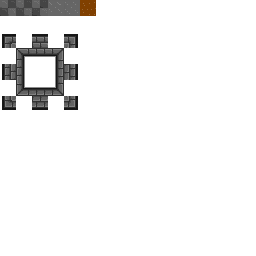
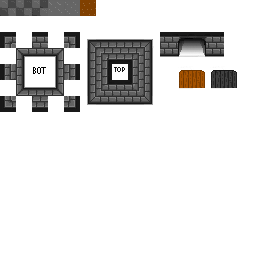
tile work on wall corners and doorways.

diff --git a/lib/game/levels/aqueduct.js b/lib/game/levels/aqueduct.js
@@ -1,6 +1,6 @@
 ig.module( 'game.levels.aqueduct' )
 .requires('impact.image')
 .defines(function(){
-LevelAqueduct=/*JSON[*/{"entities":[{"type":"EntityCharlotte","x":80,"y":136},{"type":"EntityDaisy","x":240,"y":112},{"type":"EntityBlock","x":128,"y":168},{"type":"EntityBlock","x":176,"y":152},{"type":"EntityBlock","x":144,"y":80},{"type":"EntityFaucet","x":144,"y":108},{"type":"EntityBlock","x":232,"y":148},{"type":"EntityBlock","x":212,"y":72}],"layer":[{"name":"ground","width":30,"height":20,"linkWithCollision":false,"visible":1,"tilesetName":"media/floortiles-16x16.png","repeat":false,"distance":"1","tilesize":16,"foreground":false,"data":[[0,0,0,0,0,0,0,0,0,0,0,0,0,0,0,0,0,0,0,0,0,0,0,0,0,0,0,0,0,0],[0,0,0,0,0,0,0,0,0,0,0,0,0,0,0,0,0,0,0,0,0,0,0,0,0,0,0,0,0,0],[0,0,1,1,1,1,1,1,1,1,1,1,1,1,1,4,1,1,1,0,0,0,0,0,0,0,0,0,0,0],[0,0,1,1,1,1,1,1,1,2,2,1,1,1,1,4,2,2,1,0,0,0,0,0,0,0,0,0,0,0],[0,0,1,2,2,2,2,2,2,2,2,2,2,2,3,4,2,2,1,0,0,0,0,0,0,0,0,0,0,0],[0,0,1,2,2,2,2,3,2,1,3,2,2,2,2,4,2,2,1,0,0,0,0,0,0,0,0,0,0,0],[0,0,1,2,3,2,2,2,2,2,3,2,2,2,5,5,5,2,1,0,0,0,0,0,0,0,0,0,0,0],[0,0,4,4,4,4,4,4,4,4,4,4,4,4,5,6,5,4,4,0,0,0,0,0,0,0,0,0,0,0],[0,0,1,2,3,3,2,2,2,3,1,1,1,2,5,5,5,2,1,0,0,0,0,0,0,0,0,0,0,0],[0,0,1,2,2,2,2,2,2,2,3,1,1,1,2,4,2,2,1,0,0,0,0,0,0,0,0,0,0,0],[0,0,1,2,3,3,2,2,2,2,2,1,2,2,3,4,3,2,1,0,0,0,0,0,0,0,0,0,0,0],[0,0,1,2,3,3,3,3,2,2,2,2,2,3,2,4,2,2,1,0,0,0,0,0,0,0,0,0,0,0],[0,0,1,2,3,3,2,2,2,2,2,2,3,2,2,4,3,2,1,0,0,0,0,0,0,0,0,0,0,0],[0,0,1,2,2,1,1,1,2,2,2,2,2,2,2,4,2,2,1,0,0,0,0,0,0,0,0,0,0,0],[0,0,1,1,1,1,1,1,1,1,1,1,1,1,1,4,1,1,1,0,0,0,0,0,0,0,0,0,0,0],[0,0,0,0,0,0,0,0,0,0,0,0,0,0,0,0,0,0,0,0,0,0,0,0,0,0,0,0,0,0],[0,0,0,0,0,0,0,0,0,0,0,0,0,0,0,0,0,0,0,0,0,0,0,0,0,0,0,0,0,0],[0,0,0,0,0,0,0,0,0,0,0,0,0,0,0,0,0,0,0,0,0,0,0,0,0,0,0,0,0,0],[0,0,0,0,0,0,0,0,0,0,0,0,0,0,0,0,0,0,0,0,0,0,0,0,0,0,0,0,0,0],[0,0,0,0,0,0,0,0,0,0,0,0,0,0,0,0,0,0,0,0,0,0,0,0,0,0,0,0,0,0]]},{"name":"walls","width":30,"height":20,"linkWithCollision":false,"visible":1,"tilesetName":"media/floortiles-16x16.png","repeat":false,"distance":"1","tilesize":16,"foreground":false,"data":[[0,0,0,0,0,0,0,0,0,0,0,0,0,0,0,0,0,0,0,0,0,0,0,0,0,0,0,0,0,0],[0,33,35,35,35,35,35,35,35,35,35,35,35,35,35,35,35,35,35,37,0,0,0,0,0,0,0,0,0,0],[0,65,50,51,51,51,51,51,51,51,51,51,51,51,51,51,51,51,52,69,0,0,0,0,0,0,0,0,0,0],[0,65,66,0,0,0,0,0,0,0,0,0,0,0,0,0,0,0,68,69,0,0,0,0,0,0,0,0,0,0],[0,65,66,0,0,0,0,0,0,0,0,0,0,0,0,0,0,0,68,69,0,0,0,0,0,0,0,0,0,0],[0,65,66,0,0,0,0,0,0,0,0,0,0,0,0,0,0,0,68,69,0,0,0,0,0,0,0,0,0,0],[0,65,66,0,0,0,0,0,0,0,0,0,0,0,0,0,0,0,68,69,0,0,0,0,0,0,0,0,0,0],[0,65,66,0,0,0,0,0,0,0,0,0,0,0,0,0,0,0,68,69,0,0,0,0,0,0,0,0,0,0],[0,65,66,0,0,0,0,0,0,0,0,0,0,0,0,0,0,0,68,69,0,0,0,0,0,0,0,0,0,0],[0,65,66,0,104,0,0,0,0,0,0,0,0,0,0,0,0,0,68,69,0,0,0,0,0,0,0,0,0,0],[0,65,66,0,0,0,0,0,0,0,0,0,0,0,0,0,0,0,68,69,0,0,0,0,0,0,0,0,0,0],[0,65,66,0,0,0,0,0,0,0,0,0,0,0,0,0,0,0,68,69,0,0,0,0,0,0,0,0,0,0],[0,65,66,0,0,0,0,0,0,0,0,0,0,0,0,0,0,0,68,69,0,0,0,0,0,0,0,0,0,0],[0,65,66,0,0,0,0,0,0,0,0,0,0,0,0,0,0,0,68,69,0,0,0,0,0,0,0,0,0,0],[0,65,82,83,83,83,83,83,83,83,83,83,83,83,83,83,83,83,84,69,0,0,0,0,0,0,0,0,0,0],[0,97,99,99,99,99,99,99,99,99,99,99,99,99,99,99,99,99,99,101,0,0,0,0,0,0,0,0,0,0],[0,0,0,0,0,0,0,0,0,0,0,0,0,0,0,0,0,0,0,0,0,0,0,0,0,0,0,0,0,0],[0,0,0,0,0,0,0,0,0,0,0,0,0,0,0,0,0,0,0,0,0,0,0,0,0,0,0,0,0,0],[0,0,0,0,0,0,0,0,0,0,0,0,0,0,0,0,0,0,0,0,0,0,0,0,0,0,0,0,0,0],[0,0,0,0,0,0,0,0,0,0,0,0,0,0,0,0,0,0,0,0,0,0,0,0,0,0,0,0,0,0]]},{"name":"collision","width":48,"height":48,"linkWithCollision":false,"visible":1,"tilesetName":"media/collisiontiles-8x8.png","repeat":false,"distance":"1","tilesize":8,"foreground":false,"data":[[0,0,0,0,0,0,0,0,0,0,0,0,0,0,0,0,0,0,0,0,0,0,0,0,0,0,0,0,0,0,0,0,0,0,0,0,0,0,0,0,0,0,0,0,0,0,0,0],[0,0,0,0,0,0,0,0,0,0,0,0,0,0,0,0,0,0,0,0,0,0,0,0,0,0,0,0,0,0,0,0,0,0,0,0,0,0,0,0,0,0,0,0,0,0,0,0],[0,0,0,0,0,0,0,0,0,0,0,0,0,0,0,0,0,0,0,0,0,0,0,0,0,0,0,0,0,0,0,0,0,0,0,0,0,0,0,0,0,0,0,0,0,0,0,0],[0,0,0,0,0,0,0,0,0,0,0,0,0,0,0,0,0,0,0,0,0,0,0,0,0,0,0,0,0,0,0,0,0,0,0,0,0,0,0,0,0,0,0,0,0,0,0,0],[0,0,0,0,1,1,1,1,1,1,1,1,1,1,1,1,1,1,1,1,1,1,1,1,1,1,1,1,1,1,1,1,1,1,1,1,1,1,0,0,0,0,0,0,0,0,0,0],[0,0,0,0,1,0,0,0,0,0,0,0,0,0,0,0,0,0,0,0,0,0,0,0,0,0,0,0,0,0,0,0,0,0,0,0,0,1,0,0,0,0,0,0,0,0,0,0],[0,0,0,0,1,0,0,0,0,0,0,0,0,0,0,0,0,0,0,0,0,0,0,0,0,0,0,0,0,0,0,0,0,0,0,0,0,1,0,0,0,0,0,0,0,0,0,0],[0,0,0,0,1,0,0,0,0,0,0,0,0,0,0,0,0,0,0,0,0,0,0,0,0,0,0,0,0,0,0,0,0,0,0,0,0,1,0,0,0,0,0,0,0,0,0,0],[0,0,0,0,1,0,0,0,0,0,0,0,0,0,0,0,0,0,0,0,0,0,0,0,0,0,0,0,0,0,0,0,0,0,0,0,0,1,0,0,0,0,0,0,0,0,0,0],[0,0,0,0,1,0,0,0,0,0,0,0,0,0,0,0,0,0,0,0,0,0,0,0,0,0,0,0,0,0,0,0,0,0,0,0,0,1,0,0,0,0,0,0,0,0,0,0],[0,0,0,0,1,0,0,0,0,0,0,0,0,0,0,0,0,0,0,0,0,0,0,0,0,0,0,0,0,0,0,0,0,0,0,0,0,1,0,0,0,0,0,0,0,0,0,0],[0,0,0,0,1,0,0,0,0,0,0,0,0,0,0,0,0,0,0,0,0,0,0,0,0,0,0,0,0,0,0,0,0,0,0,0,0,1,0,0,0,0,0,0,0,0,0,0],[0,0,0,0,1,0,0,0,0,0,0,0,0,0,0,0,0,0,0,0,0,0,0,0,0,0,0,0,0,0,0,0,0,0,0,0,0,1,0,0,0,0,0,0,0,0,0,0],[0,0,0,0,1,0,0,0,0,0,0,0,0,0,0,0,0,0,0,0,0,0,0,0,0,0,0,0,0,0,0,0,0,0,0,0,0,1,0,0,0,0,0,0,0,0,0,0],[0,0,0,0,1,0,0,0,0,0,0,0,0,0,0,0,0,0,0,0,0,0,0,0,0,0,0,0,0,0,0,0,0,0,0,0,0,1,0,0,0,0,0,0,0,0,0,0],[0,0,0,0,1,0,0,0,0,0,0,0,0,0,0,0,0,0,0,0,0,0,0,0,0,0,0,0,0,0,0,0,0,0,0,0,0,1,0,0,0,0,0,0,0,0,0,0],[0,0,0,0,1,0,0,0,0,0,0,0,0,0,0,0,0,0,0,0,0,0,0,0,0,0,0,0,0,0,0,0,0,0,0,0,0,1,0,0,0,0,0,0,0,0,0,0],[0,0,0,0,1,0,0,0,0,0,0,0,0,0,0,0,0,0,0,0,0,0,0,0,0,0,0,0,0,0,0,0,0,0,0,0,0,1,0,0,0,0,0,0,0,0,0,0],[0,0,0,0,1,0,0,0,0,0,0,0,0,0,0,0,0,0,0,0,0,0,0,0,0,0,0,0,0,0,0,0,0,0,0,0,0,1,0,0,0,0,0,0,0,0,0,0],[0,0,0,0,1,0,0,0,0,0,0,0,0,0,0,0,0,0,0,0,0,0,0,0,0,0,0,0,0,0,0,0,0,0,0,0,0,1,0,0,0,0,0,0,0,0,0,0],[0,0,0,0,1,0,0,0,0,0,0,0,0,0,0,0,0,0,0,0,0,0,0,0,0,0,0,0,0,0,0,0,0,0,0,0,0,1,0,0,0,0,0,0,0,0,0,0],[0,0,0,0,1,0,0,0,0,0,0,0,0,0,0,0,0,0,0,0,0,0,0,0,0,0,0,0,0,0,0,0,0,0,0,0,0,1,0,0,0,0,0,0,0,0,0,0],[0,0,0,0,1,0,0,0,0,0,0,0,0,0,0,0,0,0,0,0,0,0,0,0,0,0,0,0,0,0,0,0,0,0,0,0,0,1,0,0,0,0,0,0,0,0,0,0],[0,0,0,0,1,0,0,0,0,0,0,0,0,0,0,0,0,0,0,0,0,0,0,0,0,0,0,0,0,0,0,0,0,0,0,0,0,1,0,0,0,0,0,0,0,0,0,0],[0,0,0,0,1,0,0,0,0,0,0,0,0,0,0,0,0,0,0,0,0,0,0,0,0,0,0,0,0,0,0,0,0,0,0,0,0,1,0,0,0,0,0,0,0,0,0,0],[0,0,0,0,1,0,0,0,0,0,0,0,0,0,0,0,0,0,0,0,0,0,0,0,0,0,0,0,0,0,0,0,0,0,0,0,0,1,0,0,0,0,0,0,0,0,0,0],[0,0,0,0,1,0,0,0,0,0,0,0,0,0,0,0,0,0,0,0,0,0,0,0,0,0,0,0,0,0,0,0,0,0,0,0,0,1,0,0,0,0,0,0,0,0,0,0],[0,0,0,0,1,0,0,0,0,0,0,0,0,0,0,0,0,0,0,0,0,0,0,0,0,0,0,0,0,0,0,0,0,0,0,0,0,1,0,0,0,0,0,0,0,0,0,0],[0,0,0,0,1,0,0,0,0,0,0,0,0,0,0,0,0,0,0,0,0,0,0,0,0,0,0,0,0,0,0,0,0,0,0,0,0,1,0,0,0,0,0,0,0,0,0,0],[0,0,0,0,1,1,1,1,1,1,1,1,1,1,1,1,1,1,1,1,1,1,1,1,1,1,1,1,1,1,1,1,1,1,1,1,1,1,0,0,0,0,0,0,0,0,0,0],[0,0,0,0,0,0,0,0,0,0,0,0,0,0,0,0,0,0,0,0,0,0,0,0,0,0,0,0,0,0,0,0,0,0,0,0,0,0,0,0,0,0,0,0,0,0,0,0],[0,0,0,0,0,0,0,0,0,0,0,0,0,0,0,0,0,0,0,0,0,0,0,0,0,0,0,0,0,0,0,0,0,0,0,0,0,0,0,0,0,0,0,0,0,0,0,0],[0,0,0,0,0,0,0,0,0,0,0,0,0,0,0,0,0,0,0,0,0,0,0,0,0,0,0,0,0,0,0,0,0,0,0,0,0,0,0,0,0,0,0,0,0,0,0,0],[0,0,0,0,0,0,0,0,0,0,0,0,0,0,0,0,0,0,0,0,0,0,0,0,0,0,0,0,0,0,0,0,0,0,0,0,0,0,0,0,0,0,0,0,0,0,0,0],[0,0,0,0,0,0,0,0,0,0,0,0,0,0,0,0,0,0,0,0,0,0,0,0,0,0,0,0,0,0,0,0,0,0,0,0,0,0,0,0,0,0,0,0,0,0,0,0],[0,0,0,0,0,0,0,0,0,0,0,0,0,0,0,0,0,0,0,0,0,0,0,0,0,0,0,0,0,0,0,0,0,0,0,0,0,0,0,0,0,0,0,0,0,0,0,0],[0,0,0,0,0,0,0,0,0,0,0,0,0,0,0,0,0,0,0,0,0,0,0,0,0,0,0,0,0,0,0,0,0,0,0,0,0,0,0,0,0,0,0,0,0,0,0,0],[0,0,0,0,0,0,0,0,0,0,0,0,0,0,0,0,0,0,0,0,0,0,0,0,0,0,0,0,0,0,0,0,0,0,0,0,0,0,0,0,0,0,0,0,0,0,0,0],[0,0,0,0,0,0,0,0,0,0,0,0,0,0,0,0,0,0,0,0,0,0,0,0,0,0,0,0,0,0,0,0,0,0,0,0,0,0,0,0,0,0,0,0,0,0,0,0],[0,0,0,0,0,0,0,0,0,0,0,0,0,0,0,0,0,0,0,0,0,0,0,0,0,0,0,0,0,0,0,0,0,0,0,0,0,0,0,0,0,0,0,0,0,0,0,0],[0,0,0,0,0,0,0,0,0,0,0,0,0,0,0,0,0,0,0,0,0,0,0,0,0,0,0,0,0,0,0,0,0,0,0,0,0,0,0,0,0,0,0,0,0,0,0,0],[0,0,0,0,0,0,0,0,0,0,0,0,0,0,0,0,0,0,0,0,0,0,0,0,0,0,0,0,0,0,0,0,0,0,0,0,0,0,0,0,0,0,0,0,0,0,0,0],[0,0,0,0,0,0,0,0,0,0,0,0,0,0,0,0,0,0,0,0,0,0,0,0,0,0,0,0,0,0,0,0,0,0,0,0,0,0,0,0,0,0,0,0,0,0,0,0],[0,0,0,0,0,0,0,0,0,0,0,0,0,0,0,0,0,0,0,0,0,0,0,0,0,0,0,0,0,0,0,0,0,0,0,0,0,0,0,0,0,0,0,0,0,0,0,0],[0,0,0,0,0,0,0,0,0,0,0,0,0,0,0,0,0,0,0,0,0,0,0,0,0,0,0,0,0,0,0,0,0,0,0,0,0,0,0,0,0,0,0,0,0,0,0,0],[0,0,0,0,0,0,0,0,0,0,0,0,0,0,0,0,0,0,0,0,0,0,0,0,0,0,0,0,0,0,0,0,0,0,0,0,0,0,0,0,0,0,0,0,0,0,0,0],[0,0,0,0,0,0,0,0,0,0,0,0,0,0,0,0,0,0,0,0,0,0,0,0,0,0,0,0,0,0,0,0,0,0,0,0,0,0,0,0,0,0,0,0,0,0,0,0],[0,0,0,0,0,0,0,0,0,0,0,0,0,0,0,0,0,0,0,0,0,0,0,0,0,0,0,0,0,0,0,0,0,0,0,0,0,0,0,0,0,0,0,0,0,0,0,0]]}]}/*]JSON*/;
+LevelAqueduct=/*JSON[*/{"entities":[{"type":"EntityCharlotte","x":80,"y":136},{"type":"EntityDaisy","x":240,"y":112},{"type":"EntityBlock","x":128,"y":168},{"type":"EntityBlock","x":176,"y":152},{"type":"EntityBlock","x":144,"y":80},{"type":"EntityFaucet","x":144,"y":108},{"type":"EntityBlock","x":232,"y":148},{"type":"EntityBlock","x":212,"y":72}],"layer":[{"name":"ground","width":30,"height":20,"linkWithCollision":false,"visible":1,"tilesetName":"media/floortiles-16x16.png","repeat":false,"distance":"1","tilesize":16,"foreground":false,"data":[[0,0,0,0,0,0,0,0,0,0,0,0,0,0,0,0,0,0,0,0,0,0,0,0,0,0,0,0,0,0],[0,0,0,0,0,0,0,0,0,0,0,0,0,0,0,0,0,0,0,0,0,0,0,0,0,0,0,0,0,0],[0,0,1,1,1,1,1,1,1,1,1,1,1,1,2,4,1,1,1,0,0,0,0,0,0,0,0,0,0,0],[0,0,1,1,1,1,1,1,1,2,2,1,1,1,2,4,2,2,1,0,0,0,0,0,0,0,0,0,0,0],[0,0,1,2,2,2,2,2,2,2,2,2,2,2,2,4,2,2,1,0,0,0,0,0,0,0,0,0,0,0],[0,0,1,2,2,2,2,3,2,1,3,2,2,2,2,5,2,2,1,0,0,0,0,0,0,0,0,0,0,0],[0,0,1,2,3,2,2,2,2,2,3,2,2,2,5,5,5,2,1,0,0,0,0,0,0,0,0,0,0,0],[0,0,4,4,5,4,5,4,4,4,4,4,5,5,5,6,5,4,4,0,0,0,0,0,0,0,0,0,0,0],[0,0,2,2,2,2,2,2,2,2,2,2,2,2,5,5,5,2,2,0,0,0,0,0,0,0,0,0,0,0],[0,0,1,2,3,2,2,2,2,2,3,1,1,2,2,4,2,2,1,0,0,0,0,0,0,0,0,0,0,0],[0,0,1,2,3,3,2,2,2,2,2,1,2,2,2,4,3,2,1,0,0,0,0,0,0,0,0,0,0,0],[0,0,1,2,3,3,3,3,2,2,2,2,2,3,2,4,2,2,1,0,0,0,0,0,0,0,0,0,0,0],[0,0,1,2,3,3,2,2,2,2,2,2,3,2,2,4,3,2,1,0,0,0,0,0,0,0,0,0,0,0],[0,0,1,2,2,1,1,1,2,2,2,2,2,2,2,4,2,2,1,0,0,0,0,0,0,0,0,0,0,0],[0,0,1,1,1,1,1,1,1,1,1,1,1,1,2,4,1,1,1,0,0,0,0,0,0,0,0,0,0,0],[0,0,0,0,0,0,0,0,0,0,0,0,0,0,0,0,0,0,0,0,0,0,0,0,0,0,0,0,0,0],[0,0,0,0,0,0,0,0,0,0,0,0,0,0,0,0,0,0,0,0,0,0,0,0,0,0,0,0,0,0],[0,0,0,0,0,0,0,0,0,0,0,0,0,0,0,0,0,0,0,0,0,0,0,0,0,0,0,0,0,0],[0,0,0,0,0,0,0,0,0,0,0,0,0,0,0,0,0,0,0,0,0,0,0,0,0,0,0,0,0,0],[0,0,0,0,0,0,0,0,0,0,0,0,0,0,0,0,0,0,0,0,0,0,0,0,0,0,0,0,0,0]]},{"name":"walls","width":30,"height":20,"linkWithCollision":false,"visible":1,"tilesetName":"media/floortiles-16x16.png","repeat":false,"distance":"1","tilesize":16,"foreground":false,"data":[[0,0,0,0,0,0,0,0,0,0,0,0,0,0,0,0,0,0,0,0,0,0,0,0,0,0,0,0,0,0],[0,33,35,35,43,44,45,35,35,35,35,35,35,35,44,45,35,35,35,37,0,0,0,0,0,0,0,0,0,0],[0,65,50,51,51,60,61,51,51,51,51,51,51,51,60,61,51,51,52,69,0,0,0,0,0,0,0,0,0,0],[0,65,66,0,0,0,0,0,0,0,0,0,0,0,0,0,0,0,68,69,0,0,0,0,0,0,0,0,0,0],[0,65,66,0,0,0,0,0,0,0,0,0,0,0,0,0,0,0,68,69,0,0,0,0,0,0,0,0,0,0],[0,65,66,0,0,0,0,0,0,0,0,0,0,0,0,0,0,0,68,69,0,0,0,0,0,0,0,0,0,0],[0,65,66,0,0,0,0,0,0,0,0,0,0,0,0,0,0,0,68,69,0,0,0,0,0,0,0,0,0,0],[0,65,66,0,0,0,0,0,0,0,0,0,0,0,0,0,0,0,68,69,0,0,0,0,0,0,0,0,0,0],[0,65,66,0,0,0,0,0,0,0,0,0,0,0,0,0,0,0,68,69,0,0,0,0,0,0,0,0,0,0],[0,65,66,0,0,0,0,0,0,0,0,0,0,0,0,0,0,0,68,69,0,0,0,0,0,0,0,0,0,0],[0,65,66,0,0,0,0,0,0,0,0,0,0,0,0,0,0,0,68,69,0,0,0,0,0,0,0,0,0,0],[0,65,66,0,0,0,0,0,0,0,0,0,0,0,0,0,0,0,68,69,0,0,0,0,0,0,0,0,0,0],[0,65,66,0,0,0,0,0,0,0,0,0,0,0,0,0,0,0,68,69,0,0,0,0,0,0,0,0,0,0],[0,65,66,0,0,0,0,0,0,0,0,0,0,0,0,0,0,0,68,69,0,0,0,0,0,0,0,0,0,0],[0,65,82,83,83,83,83,83,83,83,83,83,83,83,83,83,83,83,84,69,0,0,0,0,0,0,0,0,0,0],[0,97,99,99,99,99,99,99,99,99,99,99,99,99,99,99,99,99,99,101,0,0,0,0,0,0,0,0,0,0],[0,0,0,0,0,0,0,0,0,0,0,0,0,0,0,0,0,0,0,0,0,0,0,0,0,0,0,0,0,0],[0,0,0,0,0,0,0,0,0,0,0,0,0,0,0,0,0,0,0,0,0,0,0,0,0,0,0,0,0,0],[0,0,0,0,0,0,0,0,0,0,0,0,0,0,0,0,0,0,0,0,0,0,0,0,0,0,0,0,0,0],[0,0,0,0,0,0,0,0,0,0,0,0,0,0,0,0,0,0,0,0,0,0,0,0,0,0,0,0,0,0]]},{"name":"collision","width":48,"height":48,"linkWithCollision":false,"visible":1,"tilesetName":"media/collisiontiles-8x8.png","repeat":false,"distance":"1","tilesize":8,"foreground":false,"data":[[0,0,0,0,0,0,0,0,0,0,0,0,0,0,0,0,0,0,0,0,0,0,0,0,0,0,0,0,0,0,0,0,0,0,0,0,0,0,0,0,0,0,0,0,0,0,0,0],[0,0,0,0,0,0,0,0,0,0,0,0,0,0,0,0,0,0,0,0,0,0,0,0,0,0,0,0,0,0,0,0,0,0,0,0,0,0,0,0,0,0,0,0,0,0,0,0],[0,0,0,0,0,0,0,0,0,0,0,0,0,0,0,0,0,0,0,0,0,0,0,0,0,0,0,0,0,0,0,0,0,0,0,0,0,0,0,0,0,0,0,0,0,0,0,0],[0,0,0,0,0,0,0,0,0,0,0,0,0,0,0,0,0,0,0,0,0,0,0,0,0,0,0,1,1,1,1,1,1,0,0,0,0,0,0,0,0,0,0,0,0,0,0,0],[0,0,0,0,1,1,1,1,1,1,1,1,1,1,1,1,1,1,1,1,1,1,1,1,1,1,1,1,0,0,0,0,1,1,1,1,1,1,0,0,0,0,0,0,0,0,0,0],[0,0,0,0,1,0,0,0,0,0,0,0,0,0,0,0,0,0,0,0,0,0,0,0,0,0,0,0,0,0,0,0,0,0,0,0,0,1,0,0,0,0,0,0,0,0,0,0],[0,0,0,0,1,0,0,0,0,0,0,0,0,0,0,0,0,0,0,0,0,0,0,0,0,0,0,0,0,0,0,0,0,0,0,0,0,1,0,0,0,0,0,0,0,0,0,0],[0,0,0,0,1,0,0,0,0,0,0,0,0,0,0,0,0,0,0,0,0,0,0,0,0,0,0,0,0,0,0,0,0,0,0,0,0,1,0,0,0,0,0,0,0,0,0,0],[0,0,0,0,1,0,0,0,0,0,0,0,0,0,0,0,0,0,0,0,0,0,0,0,0,0,0,0,0,0,0,0,0,0,0,0,0,1,0,0,0,0,0,0,0,0,0,0],[0,0,0,0,1,0,0,0,0,0,0,0,0,0,0,0,0,0,0,0,0,0,0,0,0,0,0,0,0,0,0,0,0,0,0,0,0,1,0,0,0,0,0,0,0,0,0,0],[0,0,0,0,1,0,0,0,0,0,0,0,0,0,0,0,0,0,0,0,0,0,0,0,0,0,0,0,0,0,0,0,0,0,0,0,0,1,0,0,0,0,0,0,0,0,0,0],[0,0,0,0,1,0,0,0,0,0,0,0,0,0,0,0,0,0,0,0,0,0,0,0,0,0,0,0,0,0,0,0,0,0,0,0,0,1,0,0,0,0,0,0,0,0,0,0],[0,0,0,0,1,0,0,0,0,0,0,0,0,0,0,0,0,0,0,0,0,0,0,0,0,0,0,0,0,0,0,0,0,0,0,0,0,1,0,0,0,0,0,0,0,0,0,0],[0,0,0,0,1,0,0,0,0,0,0,0,0,0,0,0,0,0,0,0,0,0,0,0,0,0,0,0,0,0,0,0,0,0,0,0,0,1,0,0,0,0,0,0,0,0,0,0],[0,0,0,0,1,0,0,0,0,0,0,0,0,0,0,0,0,0,0,0,0,0,0,0,0,0,0,0,0,0,0,0,0,0,0,0,0,1,0,0,0,0,0,0,0,0,0,0],[0,0,0,0,1,0,0,0,0,0,0,0,0,0,0,0,0,0,0,0,0,0,0,0,0,0,0,0,0,0,0,0,0,0,0,0,0,1,0,0,0,0,0,0,0,0,0,0],[0,0,0,0,1,0,0,0,0,0,0,0,0,0,0,0,0,0,0,0,0,0,0,0,0,0,0,0,0,0,0,0,0,0,0,0,0,1,0,0,0,0,0,0,0,0,0,0],[0,0,0,0,1,0,0,0,0,0,0,0,0,0,0,0,0,0,0,0,0,0,0,0,0,0,0,0,0,0,0,0,0,0,0,0,0,1,0,0,0,0,0,0,0,0,0,0],[0,0,0,0,1,0,0,0,0,0,0,0,0,0,0,0,0,0,0,0,0,0,0,0,0,0,0,0,0,0,0,0,0,0,0,0,0,1,0,0,0,0,0,0,0,0,0,0],[0,0,0,0,1,0,0,0,0,0,0,0,0,0,0,0,0,0,0,0,0,0,0,0,0,0,0,0,0,0,0,0,0,0,0,0,0,1,0,0,0,0,0,0,0,0,0,0],[0,0,0,0,1,0,0,0,0,0,0,0,0,0,0,0,0,0,0,0,0,0,0,0,0,0,0,0,0,0,0,0,0,0,0,0,0,1,0,0,0,0,0,0,0,0,0,0],[0,0,0,0,1,0,0,0,0,0,0,0,0,0,0,0,0,0,0,0,0,0,0,0,0,0,0,0,0,0,0,0,0,0,0,0,0,1,0,0,0,0,0,0,0,0,0,0],[0,0,0,0,1,0,0,0,0,0,0,0,0,0,0,0,0,0,0,0,0,0,0,0,0,0,0,0,0,0,0,0,0,0,0,0,0,1,0,0,0,0,0,0,0,0,0,0],[0,0,0,0,1,0,0,0,0,0,0,0,0,0,0,0,0,0,0,0,0,0,0,0,0,0,0,0,0,0,0,0,0,0,0,0,0,1,0,0,0,0,0,0,0,0,0,0],[0,0,0,0,1,0,0,0,0,0,0,0,0,0,0,0,0,0,0,0,0,0,0,0,0,0,0,0,0,0,0,0,0,0,0,0,0,1,0,0,0,0,0,0,0,0,0,0],[0,0,0,0,1,0,0,0,0,0,0,0,0,0,0,0,0,0,0,0,0,0,0,0,0,0,0,0,0,0,0,0,0,0,0,0,0,1,0,0,0,0,0,0,0,0,0,0],[0,0,0,0,1,0,0,0,0,0,0,0,0,0,0,0,0,0,0,0,0,0,0,0,0,0,0,0,0,0,0,0,0,0,0,0,0,1,0,0,0,0,0,0,0,0,0,0],[0,0,0,0,1,0,0,0,0,0,0,0,0,0,0,0,0,0,0,0,0,0,0,0,0,0,0,0,0,0,0,0,0,0,0,0,0,1,0,0,0,0,0,0,0,0,0,0],[0,0,0,0,1,0,0,0,0,0,0,0,0,0,0,0,0,0,0,0,0,0,0,0,0,0,0,0,0,0,0,0,0,0,0,0,0,1,0,0,0,0,0,0,0,0,0,0],[0,0,0,0,1,1,1,1,1,1,1,1,1,1,1,1,1,1,1,1,1,1,1,1,1,1,1,1,1,1,1,1,1,1,1,1,1,1,0,0,0,0,0,0,0,0,0,0],[0,0,0,0,0,0,0,0,0,0,0,0,0,0,0,0,0,0,0,0,0,0,0,0,0,0,0,0,0,0,0,0,0,0,0,0,0,0,0,0,0,0,0,0,0,0,0,0],[0,0,0,0,0,0,0,0,0,0,0,0,0,0,0,0,0,0,0,0,0,0,0,0,0,0,0,0,0,0,0,0,0,0,0,0,0,0,0,0,0,0,0,0,0,0,0,0],[0,0,0,0,0,0,0,0,0,0,0,0,0,0,0,0,0,0,0,0,0,0,0,0,0,0,0,0,0,0,0,0,0,0,0,0,0,0,0,0,0,0,0,0,0,0,0,0],[0,0,0,0,0,0,0,0,0,0,0,0,0,0,0,0,0,0,0,0,0,0,0,0,0,0,0,0,0,0,0,0,0,0,0,0,0,0,0,0,0,0,0,0,0,0,0,0],[0,0,0,0,0,0,0,0,0,0,0,0,0,0,0,0,0,0,0,0,0,0,0,0,0,0,0,0,0,0,0,0,0,0,0,0,0,0,0,0,0,0,0,0,0,0,0,0],[0,0,0,0,0,0,0,0,0,0,0,0,0,0,0,0,0,0,0,0,0,0,0,0,0,0,0,0,0,0,0,0,0,0,0,0,0,0,0,0,0,0,0,0,0,0,0,0],[0,0,0,0,0,0,0,0,0,0,0,0,0,0,0,0,0,0,0,0,0,0,0,0,0,0,0,0,0,0,0,0,0,0,0,0,0,0,0,0,0,0,0,0,0,0,0,0],[0,0,0,0,0,0,0,0,0,0,0,0,0,0,0,0,0,0,0,0,0,0,0,0,0,0,0,0,0,0,0,0,0,0,0,0,0,0,0,0,0,0,0,0,0,0,0,0],[0,0,0,0,0,0,0,0,0,0,0,0,0,0,0,0,0,0,0,0,0,0,0,0,0,0,0,0,0,0,0,0,0,0,0,0,0,0,0,0,0,0,0,0,0,0,0,0],[0,0,0,0,0,0,0,0,0,0,0,0,0,0,0,0,0,0,0,0,0,0,0,0,0,0,0,0,0,0,0,0,0,0,0,0,0,0,0,0,0,0,0,0,0,0,0,0],[0,0,0,0,0,0,0,0,0,0,0,0,0,0,0,0,0,0,0,0,0,0,0,0,0,0,0,0,0,0,0,0,0,0,0,0,0,0,0,0,0,0,0,0,0,0,0,0],[0,0,0,0,0,0,0,0,0,0,0,0,0,0,0,0,0,0,0,0,0,0,0,0,0,0,0,0,0,0,0,0,0,0,0,0,0,0,0,0,0,0,0,0,0,0,0,0],[0,0,0,0,0,0,0,0,0,0,0,0,0,0,0,0,0,0,0,0,0,0,0,0,0,0,0,0,0,0,0,0,0,0,0,0,0,0,0,0,0,0,0,0,0,0,0,0],[0,0,0,0,0,0,0,0,0,0,0,0,0,0,0,0,0,0,0,0,0,0,0,0,0,0,0,0,0,0,0,0,0,0,0,0,0,0,0,0,0,0,0,0,0,0,0,0],[0,0,0,0,0,0,0,0,0,0,0,0,0,0,0,0,0,0,0,0,0,0,0,0,0,0,0,0,0,0,0,0,0,0,0,0,0,0,0,0,0,0,0,0,0,0,0,0],[0,0,0,0,0,0,0,0,0,0,0,0,0,0,0,0,0,0,0,0,0,0,0,0,0,0,0,0,0,0,0,0,0,0,0,0,0,0,0,0,0,0,0,0,0,0,0,0],[0,0,0,0,0,0,0,0,0,0,0,0,0,0,0,0,0,0,0,0,0,0,0,0,0,0,0,0,0,0,0,0,0,0,0,0,0,0,0,0,0,0,0,0,0,0,0,0],[0,0,0,0,0,0,0,0,0,0,0,0,0,0,0,0,0,0,0,0,0,0,0,0,0,0,0,0,0,0,0,0,0,0,0,0,0,0,0,0,0,0,0,0,0,0,0,0]]}]}/*]JSON*/;
 LevelAqueductResources=[new ig.Image('media/floortiles-16x16.png'), new ig.Image('media/floortiles-16x16.png')];
 });

diff --git a/lib/game/levels/gauntlet.js b/lib/game/levels/gauntlet.js
@@ -1,6 +1,6 @@
 ig.module( 'game.levels.gauntlet' )
 .requires('impact.image')
 .defines(function(){
-LevelGauntlet=/*JSON[*/{"entities":[{"type":"EntityCharlotte","x":200,"y":60},{"type":"EntityDaisy","x":160,"y":144},{"type":"EntityDaisy","x":128,"y":144},{"type":"EntityDaisy","x":144,"y":144},{"type":"EntityDaisy","x":160,"y":176},{"type":"EntityDaisy","x":112,"y":144},{"type":"EntityDaisy","x":144,"y":176},{"type":"EntityDaisy","x":128,"y":176},{"type":"EntityDaisy","x":112,"y":176},{"type":"EntityFaucet","x":96,"y":144},{"type":"EntityFaucet","x":96,"y":176}],"layer":[{"name":"floor","width":30,"height":20,"linkWithCollision":false,"visible":true,"tilesetName":"media/floortiles-16x16.png","repeat":false,"distance":"1","tilesize":16,"foreground":false,"data":[[0,0,0,0,0,0,0,0,0,0,0,0,0,0,0,0,0,0,0,0,0,0,0,0,0,0,0,0,0,0],[0,0,0,0,0,0,0,0,0,0,0,0,0,0,0,0,0,0,0,0,0,0,0,0,0,0,0,0,0,0],[0,0,0,0,0,0,0,0,0,0,0,0,0,0,0,0,0,0,0,0,0,0,0,0,0,0,0,0,0,0],[0,0,0,2,2,3,3,0,0,0,0,2,2,2,2,0,0,0,0,0,0,0,0,0,0,0,0,0,0,0],[0,0,0,2,2,2,3,0,0,0,0,2,2,2,2,0,0,0,0,0,0,0,0,0,0,0,0,0,0,0],[0,0,0,2,2,2,3,0,0,0,0,2,2,2,2,0,0,0,0,0,0,0,0,0,0,0,0,0,0,0],[0,0,0,2,2,2,3,0,0,0,0,2,2,2,2,0,0,0,0,0,0,0,0,0,0,0,0,0,0,0],[0,0,0,2,2,2,3,0,0,0,0,2,2,2,2,0,0,0,0,0,0,0,0,0,0,0,0,0,0,0],[0,0,0,2,2,2,3,6,6,6,6,2,2,2,2,0,0,0,0,0,0,0,0,0,0,0,0,0,0,0],[0,0,0,2,2,2,2,6,6,6,6,2,2,2,2,0,0,0,0,0,0,0,0,0,0,0,0,0,0,0],[0,0,0,2,2,2,2,2,2,2,2,2,2,2,2,0,0,0,0,0,0,0,0,0,0,0,0,0,0,0],[0,0,0,2,2,2,2,6,6,6,6,2,2,2,2,0,0,0,0,0,0,0,0,0,0,0,0,0,0,0],[0,0,0,2,2,2,2,6,6,6,6,2,2,2,2,0,0,0,0,0,0,0,0,0,0,0,0,0,0,0],[0,0,0,2,2,2,2,0,0,0,0,2,2,2,2,0,0,0,0,0,0,0,0,0,0,0,0,0,0,0],[0,0,0,0,0,0,0,0,0,0,0,0,0,0,0,0,0,0,0,0,0,0,0,0,0,0,0,0,0,0],[0,0,0,0,0,0,0,0,0,0,0,0,0,0,0,0,0,0,0,0,0,0,0,0,0,0,0,0,0,0],[0,0,0,0,0,0,0,0,0,0,0,0,0,0,0,0,0,0,0,0,0,0,0,0,0,0,0,0,0,0],[0,0,0,0,0,0,0,0,0,0,0,0,0,0,0,0,0,0,0,0,0,0,0,0,0,0,0,0,0,0],[0,0,0,0,0,0,0,0,0,0,0,0,0,0,0,0,0,0,0,0,0,0,0,0,0,0,0,0,0,0],[0,0,0,0,0,0,0,0,0,0,0,0,0,0,0,0,0,0,0,0,0,0,0,0,0,0,0,0,0,0]]},{"name":"walls","width":30,"height":20,"linkWithCollision":false,"visible":true,"tilesetName":"media/floortiles-16x16.png","repeat":false,"distance":"1","tilesize":16,"foreground":false,"data":[[0,0,0,0,0,0,0,0,0,0,0,0,0,0,0,0,0,0,0,0,0,0,0,0,0,0,0,0,0,0],[0,0,0,0,0,0,0,0,0,0,0,0,0,0,0,0,0,0,0,0,0,0,0,0,0,0,0,0,0,0],[0,0,33,35,35,35,35,37,0,0,33,35,35,35,35,37,0,0,0,0,0,0,0,0,0,0,0,0,0,0],[0,0,65,50,51,51,52,69,0,0,65,50,51,51,52,69,0,0,0,0,0,0,0,0,0,0,0,0,0,0],[0,0,65,66,0,0,68,69,0,0,65,66,0,0,68,69,0,0,0,0,0,0,0,0,0,0,0,0,0,0],[0,0,65,66,0,0,68,69,0,0,65,66,0,0,68,69,0,0,0,0,0,0,0,0,0,0,0,0,0,0],[0,0,65,66,0,0,68,69,0,0,65,66,0,0,68,69,0,0,0,0,0,0,0,0,0,0,0,0,0,0],[0,0,65,66,0,0,68,69,35,35,65,66,0,0,68,69,0,0,0,0,0,0,0,0,0,0,0,0,0,0],[0,0,65,66,0,0,0,51,51,51,51,0,0,0,68,69,0,0,0,0,0,0,0,0,0,0,0,0,0,0],[0,0,65,66,0,0,0,0,0,0,0,0,0,0,68,69,0,0,0,0,0,0,0,0,0,0,0,0,0,0],[0,0,65,66,0,0,0,0,0,0,0,0,0,0,68,69,0,0,0,0,0,0,0,0,0,0,0,0,0,0],[0,0,65,66,0,0,0,0,0,0,0,0,0,0,68,69,0,0,0,0,0,0,0,0,0,0,0,0,0,0],[0,0,65,66,0,0,0,83,83,83,83,0,0,0,68,69,0,0,0,0,0,0,0,0,0,0,0,0,0,0],[0,0,65,82,83,83,84,69,99,99,65,82,83,83,84,69,0,0,0,0,0,0,0,0,0,0,0,0,0,0],[0,0,97,99,99,99,99,101,0,0,97,99,99,99,99,101,0,0,0,0,0,0,0,0,0,0,0,0,0,0],[0,0,0,0,0,0,0,0,0,0,0,0,0,0,0,0,0,0,0,0,0,0,0,0,0,0,0,0,0,0],[0,0,0,0,0,0,0,0,0,0,0,0,0,0,0,0,0,0,0,0,0,0,0,0,0,0,0,0,0,0],[0,0,0,0,0,0,0,0,0,0,0,0,0,0,0,0,0,0,0,0,0,0,0,0,0,0,0,0,0,0],[0,0,0,0,0,0,0,0,0,0,0,0,0,0,0,0,0,0,0,0,0,0,0,0,0,0,0,0,0,0],[0,0,0,0,0,0,0,0,0,0,0,0,0,0,0,0,0,0,0,0,0,0,0,0,0,0,0,0,0,0]]},{"name":"collision","width":48,"height":40,"linkWithCollision":false,"visible":true,"tilesetName":"media/collisiontiles-8x8.png","repeat":false,"distance":"1","tilesize":8,"foreground":false,"data":[[0,0,0,0,0,0,0,0,0,0,0,0,0,0,0,0,0,0,0,0,0,0,0,0,0,0,0,0,0,0,0,0,0,0,0,0,0,0,0,0,0,0,0,0,0,0,0,0],[0,0,0,0,0,0,0,0,0,0,0,0,0,0,0,0,0,0,0,0,0,0,0,0,0,0,0,0,0,0,0,0,0,0,0,0,0,0,0,0,0,0,0,0,0,0,0,0],[0,0,0,0,0,0,0,0,0,0,0,0,0,0,0,0,0,0,0,0,0,0,0,0,0,0,0,0,0,0,0,0,0,0,0,0,0,0,0,0,0,0,0,0,0,0,0,0],[0,0,0,0,0,0,0,0,0,0,0,0,0,0,0,0,0,0,0,0,0,0,0,0,0,0,0,0,0,0,0,0,0,0,0,0,0,0,0,0,0,0,0,0,0,0,0,0],[0,0,0,0,0,0,0,0,0,0,0,0,0,0,0,0,0,0,0,0,0,0,0,0,0,0,0,0,0,0,0,0,0,0,0,0,0,0,0,0,0,0,0,0,0,0,0,0],[0,0,0,0,0,0,0,0,0,0,0,0,0,0,0,0,0,0,0,0,0,0,0,0,0,0,0,0,0,0,0,0,0,0,0,0,0,0,0,0,0,0,0,0,0,0,0,0],[0,0,0,0,0,0,1,1,1,1,1,1,1,1,0,0,0,0,0,0,0,0,1,1,1,1,1,1,1,1,0,0,0,0,0,0,0,0,0,0,0,0,0,0,0,0,0,0],[0,0,0,0,0,0,1,0,0,0,0,0,0,1,0,0,0,0,0,0,0,0,1,0,0,0,0,0,0,1,0,0,0,0,0,0,0,0,0,0,0,0,0,0,0,0,0,0],[0,0,0,0,0,0,1,0,0,0,0,0,0,1,0,0,0,0,0,0,0,0,1,0,0,0,0,0,0,1,0,0,0,0,0,0,0,0,0,0,0,0,0,0,0,0,0,0],[0,0,0,0,0,0,1,0,0,0,0,0,0,1,0,0,0,0,0,0,0,0,1,0,0,0,0,0,0,1,0,0,0,0,0,0,0,0,0,0,0,0,0,0,0,0,0,0],[0,0,0,0,0,0,1,0,0,0,0,0,0,1,0,0,0,0,0,0,0,0,1,0,0,0,0,0,0,1,0,0,0,0,0,0,0,0,0,0,0,0,0,0,0,0,0,0],[0,0,0,0,0,0,1,0,0,0,0,0,0,1,0,0,0,0,0,0,0,0,1,0,0,0,0,0,0,1,0,0,0,0,0,0,0,0,0,0,0,0,0,0,0,0,0,0],[0,0,0,0,0,0,1,0,0,0,0,0,0,1,0,0,0,0,0,0,0,0,1,0,0,0,0,0,0,1,0,0,0,0,0,0,0,0,0,0,0,0,0,0,0,0,0,0],[0,0,0,0,0,0,1,0,0,0,0,0,0,1,0,0,0,0,0,0,0,0,1,0,0,0,0,0,0,1,0,0,0,0,0,0,0,0,0,0,0,0,0,0,0,0,0,0],[0,0,0,0,0,0,1,0,0,0,0,0,0,1,0,0,0,0,0,0,0,0,1,0,0,0,0,0,0,1,0,0,0,0,0,0,0,0,0,0,0,0,0,0,0,0,0,0],[0,0,0,0,0,0,1,0,0,0,0,0,0,1,0,0,0,0,0,0,0,0,1,0,0,0,0,0,0,1,0,0,0,0,0,0,0,0,0,0,0,0,0,0,0,0,0,0],[0,0,0,0,0,0,1,0,0,0,0,0,0,1,1,1,1,1,1,1,1,1,1,0,0,0,0,0,0,1,0,0,0,0,0,0,0,0,0,0,0,0,0,0,0,0,0,0],[0,0,0,0,0,0,1,0,0,0,0,0,0,0,0,0,0,0,0,0,0,0,0,0,0,0,0,0,0,1,0,0,0,0,0,0,0,0,0,0,0,0,0,0,0,0,0,0],[0,0,0,0,0,0,1,0,0,0,0,0,0,0,0,0,0,0,0,0,0,0,0,0,0,0,0,0,0,1,0,0,0,0,0,0,0,0,0,0,0,0,0,0,0,0,0,0],[0,0,0,0,0,0,1,0,0,0,0,0,0,0,0,0,0,0,0,0,0,0,0,0,0,0,0,0,0,1,0,0,0,0,0,0,0,0,0,0,0,0,0,0,0,0,0,0],[0,0,0,0,0,0,1,0,0,0,0,0,0,0,0,0,0,0,0,0,0,0,0,0,0,0,0,0,0,1,0,0,0,0,0,0,0,0,0,0,0,0,0,0,0,0,0,0],[0,0,0,0,0,0,1,0,0,0,0,0,0,0,0,0,0,0,0,0,0,0,0,0,0,0,0,0,0,1,0,0,0,0,0,0,0,0,0,0,0,0,0,0,0,0,0,0],[0,0,0,0,0,0,1,0,0,0,0,0,0,0,0,0,0,0,0,0,0,0,0,0,0,0,0,0,0,1,0,0,0,0,0,0,0,0,0,0,0,0,0,0,0,0,0,0],[0,0,0,0,0,0,1,0,0,0,0,0,0,0,0,0,0,0,0,0,0,0,0,0,0,0,0,0,0,1,0,0,0,0,0,0,0,0,0,0,0,0,0,0,0,0,0,0],[0,0,0,0,0,0,1,0,0,0,0,0,0,0,0,0,0,0,0,0,0,0,0,0,0,0,0,0,0,1,0,0,0,0,0,0,0,0,0,0,0,0,0,0,0,0,0,0],[0,0,0,0,0,0,1,0,0,0,0,0,0,1,1,1,1,1,1,1,1,1,1,0,0,0,0,0,0,1,0,0,0,0,0,0,0,0,0,0,0,0,0,0,0,0,0,0],[0,0,0,0,0,0,1,0,0,0,0,0,0,1,0,0,0,0,0,0,0,0,1,0,0,0,0,0,0,1,0,0,0,0,0,0,0,0,0,0,0,0,0,0,0,0,0,0],[0,0,0,0,0,0,1,1,1,1,1,1,1,1,0,0,0,0,0,0,0,0,1,1,1,1,1,1,1,1,0,0,0,0,0,0,0,0,0,0,0,0,0,0,0,0,0,0],[0,0,0,0,0,0,0,0,0,0,0,0,0,0,0,0,0,0,0,0,0,0,0,0,0,0,0,0,0,0,0,0,0,0,0,0,0,0,0,0,0,0,0,0,0,0,0,0],[0,0,0,0,0,0,0,0,0,0,0,0,0,0,0,0,0,0,0,0,0,0,0,0,0,0,0,0,0,0,0,0,0,0,0,0,0,0,0,0,0,0,0,0,0,0,0,0],[0,0,0,0,0,0,0,0,0,0,0,0,0,0,0,0,0,0,0,0,0,0,0,0,0,0,0,0,0,0,0,0,0,0,0,0,0,0,0,0,0,0,0,0,0,0,0,0],[0,0,0,0,0,0,0,0,0,0,0,0,0,0,0,0,0,0,0,0,0,0,0,0,0,0,0,0,0,0,0,0,0,0,0,0,0,0,0,0,0,0,0,0,0,0,0,0],[0,0,0,0,0,0,0,0,0,0,0,0,0,0,0,0,0,0,0,0,0,0,0,0,0,0,0,0,0,0,0,0,0,0,0,0,0,0,0,0,0,0,0,0,0,0,0,0],[0,0,0,0,0,0,0,0,0,0,0,0,0,0,0,0,0,0,0,0,0,0,0,0,0,0,0,0,0,0,0,0,0,0,0,0,0,0,0,0,0,0,0,0,0,0,0,0],[0,0,0,0,0,0,0,0,0,0,0,0,0,0,0,0,0,0,0,0,0,0,0,0,0,0,0,0,0,0,0,0,0,0,0,0,0,0,0,0,0,0,0,0,0,0,0,0],[0,0,0,0,0,0,0,0,0,0,0,0,0,0,0,0,0,0,0,0,0,0,0,0,0,0,0,0,0,0,0,0,0,0,0,0,0,0,0,0,0,0,0,0,0,0,0,0],[0,0,0,0,0,0,0,0,0,0,0,0,0,0,0,0,0,0,0,0,0,0,0,0,0,0,0,0,0,0,0,0,0,0,0,0,0,0,0,0,0,0,0,0,0,0,0,0],[0,0,0,0,0,0,0,0,0,0,0,0,0,0,0,0,0,0,0,0,0,0,0,0,0,0,0,0,0,0,0,0,0,0,0,0,0,0,0,0,0,0,0,0,0,0,0,0],[0,0,0,0,0,0,0,0,0,0,0,0,0,0,0,0,0,0,0,0,0,0,0,0,0,0,0,0,0,0,0,0,0,0,0,0,0,0,0,0,0,0,0,0,0,0,0,0],[0,0,0,0,0,0,0,0,0,0,0,0,0,0,0,0,0,0,0,0,0,0,0,0,0,0,0,0,0,0,0,0,0,0,0,0,0,0,0,0,0,0,0,0,0,0,0,0]]}]}/*]JSON*/;
+LevelGauntlet=/*JSON[*/{"entities":[{"type":"EntityCharlotte","x":200,"y":60},{"type":"EntityDaisy","x":160,"y":144},{"type":"EntityDaisy","x":128,"y":144},{"type":"EntityDaisy","x":144,"y":144},{"type":"EntityDaisy","x":160,"y":176},{"type":"EntityDaisy","x":112,"y":144},{"type":"EntityDaisy","x":144,"y":176},{"type":"EntityDaisy","x":128,"y":176},{"type":"EntityDaisy","x":112,"y":176},{"type":"EntityFaucet","x":96,"y":144},{"type":"EntityFaucet","x":96,"y":176}],"layer":[{"name":"floor","width":30,"height":20,"linkWithCollision":false,"visible":1,"tilesetName":"media/floortiles-16x16.png","repeat":false,"distance":"1","tilesize":16,"foreground":false,"data":[[0,0,0,0,0,0,0,0,0,0,0,0,0,0,0,0,0,0,0,0,0,0,0,0,0,0,0,0,0,0],[0,0,0,0,0,0,0,0,0,0,0,0,0,0,0,0,0,0,0,0,0,0,0,0,0,0,0,0,0,0],[0,0,0,0,2,2,0,0,0,0,0,0,2,2,0,0,0,0,0,0,0,0,0,0,0,0,0,0,0,0],[0,0,0,2,2,3,3,0,0,0,0,2,2,2,2,0,0,0,0,0,0,0,0,0,0,0,0,0,0,0],[0,0,0,2,2,2,3,0,0,0,0,2,2,2,2,0,0,0,0,0,0,0,0,0,0,0,0,0,0,0],[0,0,0,2,2,2,3,0,0,0,0,2,2,2,2,0,0,0,0,0,0,0,0,0,0,0,0,0,0,0],[0,0,0,2,2,2,3,0,0,0,0,2,2,2,2,0,0,0,0,0,0,0,0,0,0,0,0,0,0,0],[0,0,0,2,2,2,3,0,0,0,0,2,2,2,2,0,0,0,0,0,0,0,0,0,0,0,0,0,0,0],[0,0,0,2,2,2,3,6,6,6,6,2,2,2,2,0,0,0,0,0,0,0,0,0,0,0,0,0,0,0],[0,0,0,2,2,2,2,6,6,6,6,2,2,2,2,0,0,0,0,0,0,0,0,0,0,0,0,0,0,0],[0,0,0,2,2,2,2,2,2,2,2,2,2,2,2,0,0,0,0,0,0,0,0,0,0,0,0,0,0,0],[0,0,0,2,2,2,2,6,6,6,6,2,2,2,2,0,0,0,0,0,0,0,0,0,0,0,0,0,0,0],[0,0,0,2,2,2,2,6,6,6,6,2,2,2,2,0,0,0,0,0,0,0,0,0,0,0,0,0,0,0],[0,0,0,2,2,2,2,0,0,0,0,2,2,2,2,0,0,0,0,0,0,0,0,0,0,0,0,0,0,0],[0,0,0,0,0,0,0,0,0,0,0,0,0,0,0,0,0,0,0,0,0,0,0,0,0,0,0,0,0,0],[0,0,0,0,0,0,0,0,0,0,0,0,0,0,0,0,0,0,0,0,0,0,0,0,0,0,0,0,0,0],[0,0,0,0,0,0,0,0,0,0,0,0,0,0,0,0,0,0,0,0,0,0,0,0,0,0,0,0,0,0],[0,0,0,0,0,0,0,0,0,0,0,0,0,0,0,0,0,0,0,0,0,0,0,0,0,0,0,0,0,0],[0,0,0,0,0,0,0,0,0,0,0,0,0,0,0,0,0,0,0,0,0,0,0,0,0,0,0,0,0,0],[0,0,0,0,0,0,0,0,0,0,0,0,0,0,0,0,0,0,0,0,0,0,0,0,0,0,0,0,0,0]]},{"name":"walls","width":30,"height":20,"linkWithCollision":false,"visible":1,"tilesetName":"media/floortiles-16x16.png","repeat":false,"distance":"1","tilesize":16,"foreground":false,"data":[[0,0,0,0,0,0,0,0,0,0,0,0,0,0,0,0,0,0,0,0,0,0,0,0,0,0,0,0,0,0],[0,0,0,0,0,0,0,0,0,0,0,0,0,0,0,0,0,0,0,0,0,0,0,0,0,0,0,0,0,0],[0,0,33,35,44,45,35,37,0,0,33,35,44,45,35,37,0,0,0,0,0,0,0,0,0,0,0,0,0,0],[0,0,65,50,60,61,52,69,0,0,65,50,60,61,52,69,0,0,0,0,0,0,0,0,0,0,0,0,0,0],[0,0,65,66,0,0,68,69,0,0,65,66,0,0,68,69,0,0,0,0,0,0,0,0,0,0,0,0,0,0],[0,0,65,66,0,0,68,69,0,0,65,66,0,0,68,69,0,0,0,0,0,0,0,0,0,0,0,0,0,0],[0,0,65,66,0,0,68,69,0,0,65,66,0,0,68,69,0,0,0,0,0,0,0,0,0,0,0,0,0,0],[0,0,65,66,0,0,68,87,35,35,89,66,0,0,68,69,0,0,0,0,0,0,0,0,0,0,0,0,0,0],[0,0,65,66,0,0,102,51,51,51,51,106,0,0,68,69,0,0,0,0,0,0,0,0,0,0,0,0,0,0],[0,0,65,66,0,0,0,0,0,0,0,0,0,0,68,69,0,0,0,0,0,0,0,0,0,0,0,0,0,0],[0,0,65,66,0,0,0,0,0,0,0,0,0,0,68,69,0,0,0,0,0,0,0,0,0,0,0,0,0,0],[0,0,65,66,0,0,0,0,0,0,0,0,0,0,68,69,0,0,0,0,0,0,0,0,0,0,0,0,0,0],[0,0,65,66,0,0,38,83,83,83,83,42,0,0,68,69,0,0,0,0,0,0,0,0,0,0,0,0,0,0],[0,0,65,82,83,83,84,55,99,99,57,82,83,83,84,69,0,0,0,0,0,0,0,0,0,0,0,0,0,0],[0,0,97,99,99,99,99,101,0,0,97,99,99,99,99,101,0,0,0,0,0,0,0,0,0,0,0,0,0,0],[0,0,0,0,0,0,0,0,0,0,0,0,0,0,0,0,0,0,0,0,0,0,0,0,0,0,0,0,0,0],[0,0,0,0,0,0,0,0,0,0,0,0,0,0,0,0,0,0,0,0,0,0,0,0,0,0,0,0,0,0],[0,0,0,0,0,0,0,0,0,0,0,0,0,0,0,0,0,0,0,0,0,0,0,0,0,0,0,0,0,0],[0,0,0,0,0,0,0,0,0,0,0,0,0,0,0,0,0,0,0,0,0,0,0,0,0,0,0,0,0,0],[0,0,0,0,0,0,0,0,0,0,0,0,0,0,0,0,0,0,0,0,0,0,0,0,0,0,0,0,0,0]]},{"name":"collision","width":48,"height":40,"linkWithCollision":false,"visible":1,"tilesetName":"media/collisiontiles-8x8.png","repeat":false,"distance":"1","tilesize":8,"foreground":false,"data":[[0,0,0,0,0,0,0,0,0,0,0,0,0,0,0,0,0,0,0,0,0,0,0,0,0,0,0,0,0,0,0,0,0,0,0,0,0,0,0,0,0,0,0,0,0,0,0,0],[0,0,0,0,0,0,0,0,0,0,0,0,0,0,0,0,0,0,0,0,0,0,0,0,0,0,0,0,0,0,0,0,0,0,0,0,0,0,0,0,0,0,0,0,0,0,0,0],[0,0,0,0,0,0,0,0,0,0,0,0,0,0,0,0,0,0,0,0,0,0,0,0,0,0,0,0,0,0,0,0,0,0,0,0,0,0,0,0,0,0,0,0,0,0,0,0],[0,0,0,0,0,0,0,0,0,0,0,0,0,0,0,0,0,0,0,0,0,0,0,0,0,0,0,0,0,0,0,0,0,0,0,0,0,0,0,0,0,0,0,0,0,0,0,0],[0,0,0,0,0,0,0,0,0,0,0,0,0,0,0,0,0,0,0,0,0,0,0,0,0,0,0,0,0,0,0,0,0,0,0,0,0,0,0,0,0,0,0,0,0,0,0,0],[0,0,0,0,0,0,0,1,1,1,1,1,1,0,0,0,0,0,0,0,0,0,0,0,0,0,0,0,0,0,0,0,0,0,0,0,0,0,0,0,0,0,0,0,0,0,0,0],[0,0,0,0,0,0,1,1,0,0,0,0,1,1,0,0,0,0,0,0,0,0,1,1,1,1,1,1,1,1,0,0,0,0,0,0,0,0,0,0,0,0,0,0,0,0,0,0],[0,0,0,0,0,0,1,0,0,0,0,0,0,1,0,0,0,0,0,0,0,0,1,0,0,0,0,0,0,1,0,0,0,0,0,0,0,0,0,0,0,0,0,0,0,0,0,0],[0,0,0,0,0,0,1,0,0,0,0,0,0,1,0,0,0,0,0,0,0,0,1,0,0,0,0,0,0,1,0,0,0,0,0,0,0,0,0,0,0,0,0,0,0,0,0,0],[0,0,0,0,0,0,1,0,0,0,0,0,0,1,0,0,0,0,0,0,0,0,1,0,0,0,0,0,0,1,0,0,0,0,0,0,0,0,0,0,0,0,0,0,0,0,0,0],[0,0,0,0,0,0,1,0,0,0,0,0,0,1,0,0,0,0,0,0,0,0,1,0,0,0,0,0,0,1,0,0,0,0,0,0,0,0,0,0,0,0,0,0,0,0,0,0],[0,0,0,0,0,0,1,0,0,0,0,0,0,1,0,0,0,0,0,0,0,0,1,0,0,0,0,0,0,1,0,0,0,0,0,0,0,0,0,0,0,0,0,0,0,0,0,0],[0,0,0,0,0,0,1,0,0,0,0,0,0,1,0,0,0,0,0,0,0,0,1,0,0,0,0,0,0,1,0,0,0,0,0,0,0,0,0,0,0,0,0,0,0,0,0,0],[0,0,0,0,0,0,1,0,0,0,0,0,0,1,0,0,0,0,0,0,0,0,1,0,0,0,0,0,0,1,0,0,0,0,0,0,0,0,0,0,0,0,0,0,0,0,0,0],[0,0,0,0,0,0,1,0,0,0,0,0,0,1,0,0,0,0,0,0,0,0,1,0,0,0,0,0,0,1,0,0,0,0,0,0,0,0,0,0,0,0,0,0,0,0,0,0],[0,0,0,0,0,0,1,0,0,0,0,0,0,1,0,0,0,0,0,0,0,0,1,0,0,0,0,0,0,1,0,0,0,0,0,0,0,0,0,0,0,0,0,0,0,0,0,0],[0,0,0,0,0,0,1,0,0,0,0,0,0,1,1,1,1,1,1,1,1,1,1,0,0,0,0,0,0,1,0,0,0,0,0,0,0,0,0,0,0,0,0,0,0,0,0,0],[0,0,0,0,0,0,1,0,0,0,0,0,0,0,0,0,0,0,0,0,0,0,0,0,0,0,0,0,0,1,0,0,0,0,0,0,0,0,0,0,0,0,0,0,0,0,0,0],[0,0,0,0,0,0,1,0,0,0,0,0,0,0,0,0,0,0,0,0,0,0,0,0,0,0,0,0,0,1,0,0,0,0,0,0,0,0,0,0,0,0,0,0,0,0,0,0],[0,0,0,0,0,0,1,0,0,0,0,0,0,0,0,0,0,0,0,0,0,0,0,0,0,0,0,0,0,1,0,0,0,0,0,0,0,0,0,0,0,0,0,0,0,0,0,0],[0,0,0,0,0,0,1,0,0,0,0,0,0,0,0,0,0,0,0,0,0,0,0,0,0,0,0,0,0,1,0,0,0,0,0,0,0,0,0,0,0,0,0,0,0,0,0,0],[0,0,0,0,0,0,1,0,0,0,0,0,0,0,0,0,0,0,0,0,0,0,0,0,0,0,0,0,0,1,0,0,0,0,0,0,0,0,0,0,0,0,0,0,0,0,0,0],[0,0,0,0,0,0,1,0,0,0,0,0,0,0,0,0,0,0,0,0,0,0,0,0,0,0,0,0,0,1,0,0,0,0,0,0,0,0,0,0,0,0,0,0,0,0,0,0],[0,0,0,0,0,0,1,0,0,0,0,0,0,0,0,0,0,0,0,0,0,0,0,0,0,0,0,0,0,1,0,0,0,0,0,0,0,0,0,0,0,0,0,0,0,0,0,0],[0,0,0,0,0,0,1,0,0,0,0,0,0,0,0,0,0,0,0,0,0,0,0,0,0,0,0,0,0,1,0,0,0,0,0,0,0,0,0,0,0,0,0,0,0,0,0,0],[0,0,0,0,0,0,1,0,0,0,0,0,0,1,1,1,1,1,1,1,1,1,1,0,0,0,0,0,0,1,0,0,0,0,0,0,0,0,0,0,0,0,0,0,0,0,0,0],[0,0,0,0,0,0,1,0,0,0,0,0,0,1,0,0,0,0,0,0,0,0,1,0,0,0,0,0,0,1,0,0,0,0,0,0,0,0,0,0,0,0,0,0,0,0,0,0],[0,0,0,0,0,0,1,1,1,1,1,1,1,1,0,0,0,0,0,0,0,0,1,1,1,1,1,1,1,1,0,0,0,0,0,0,0,0,0,0,0,0,0,0,0,0,0,0],[0,0,0,0,0,0,0,0,0,0,0,0,0,0,0,0,0,0,0,0,0,0,0,0,0,0,0,0,0,0,0,0,0,0,0,0,0,0,0,0,0,0,0,0,0,0,0,0],[0,0,0,0,0,0,0,0,0,0,0,0,0,0,0,0,0,0,0,0,0,0,0,0,0,0,0,0,0,0,0,0,0,0,0,0,0,0,0,0,0,0,0,0,0,0,0,0],[0,0,0,0,0,0,0,0,0,0,0,0,0,0,0,0,0,0,0,0,0,0,0,0,0,0,0,0,0,0,0,0,0,0,0,0,0,0,0,0,0,0,0,0,0,0,0,0],[0,0,0,0,0,0,0,0,0,0,0,0,0,0,0,0,0,0,0,0,0,0,0,0,0,0,0,0,0,0,0,0,0,0,0,0,0,0,0,0,0,0,0,0,0,0,0,0],[0,0,0,0,0,0,0,0,0,0,0,0,0,0,0,0,0,0,0,0,0,0,0,0,0,0,0,0,0,0,0,0,0,0,0,0,0,0,0,0,0,0,0,0,0,0,0,0],[0,0,0,0,0,0,0,0,0,0,0,0,0,0,0,0,0,0,0,0,0,0,0,0,0,0,0,0,0,0,0,0,0,0,0,0,0,0,0,0,0,0,0,0,0,0,0,0],[0,0,0,0,0,0,0,0,0,0,0,0,0,0,0,0,0,0,0,0,0,0,0,0,0,0,0,0,0,0,0,0,0,0,0,0,0,0,0,0,0,0,0,0,0,0,0,0],[0,0,0,0,0,0,0,0,0,0,0,0,0,0,0,0,0,0,0,0,0,0,0,0,0,0,0,0,0,0,0,0,0,0,0,0,0,0,0,0,0,0,0,0,0,0,0,0],[0,0,0,0,0,0,0,0,0,0,0,0,0,0,0,0,0,0,0,0,0,0,0,0,0,0,0,0,0,0,0,0,0,0,0,0,0,0,0,0,0,0,0,0,0,0,0,0],[0,0,0,0,0,0,0,0,0,0,0,0,0,0,0,0,0,0,0,0,0,0,0,0,0,0,0,0,0,0,0,0,0,0,0,0,0,0,0,0,0,0,0,0,0,0,0,0],[0,0,0,0,0,0,0,0,0,0,0,0,0,0,0,0,0,0,0,0,0,0,0,0,0,0,0,0,0,0,0,0,0,0,0,0,0,0,0,0,0,0,0,0,0,0,0,0],[0,0,0,0,0,0,0,0,0,0,0,0,0,0,0,0,0,0,0,0,0,0,0,0,0,0,0,0,0,0,0,0,0,0,0,0,0,0,0,0,0,0,0,0,0,0,0,0]]}]}/*]JSON*/;
 LevelGauntletResources=[new ig.Image('media/floortiles-16x16.png'), new ig.Image('media/floortiles-16x16.png')];
 });
